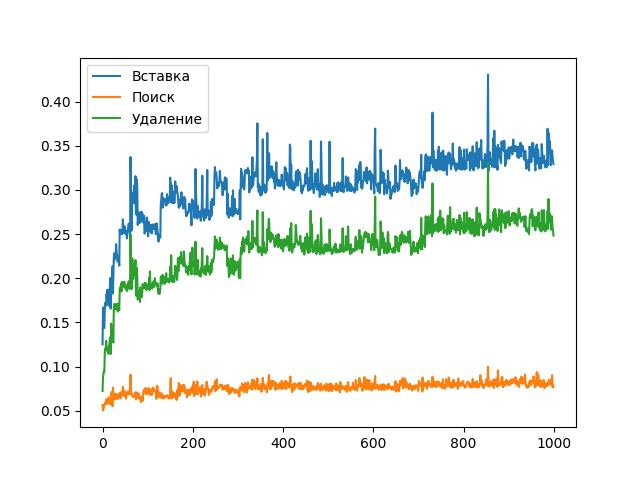
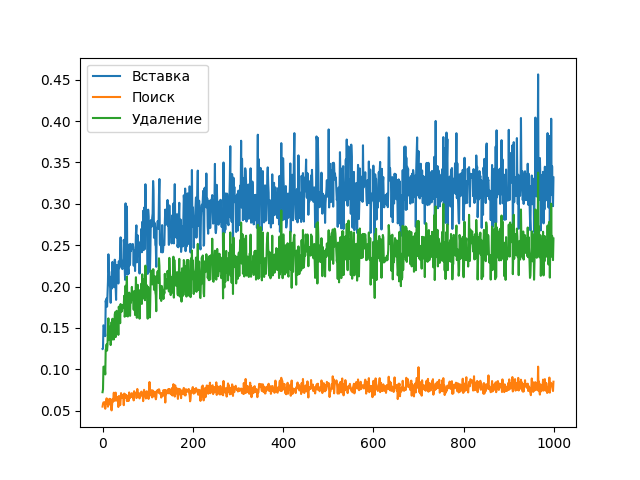
Nice

diff --git a/profiler.cpp b/profiler.cpp
@@ -51,17 +51,17 @@ public:
             //testing
             for (int j = 0; j < n; j++) {
                 double start_insert = get_time();
-                tree.insert(test_sequence[0]);
+                tree.insert(test_sequence[i]);
                 double end_insert = get_time();
                 insert_time += end_insert - start_insert;
 
                 double start_find = get_time();
-                tree.find(test_sequence[0]);
+                tree.find(test_sequence[i]);
                 double end_find = get_time();
                 find_time += end_find - start_find;
 
                 double start_erase = get_time();
-                tree.erase(test_sequence[0]);
+                tree.erase(test_sequence[i]);
                 double end_erase = get_time();
                 erase_time += end_erase - start_erase;
             }
@@ -83,11 +83,7 @@ public:
 int main(){
     char k;
     cin >> k;
-    if (k == '1') {
-        profiler<AVL<int>> pf;
-    } else {
-        profiler<rb_set<int>> pf;
-    }
+    profiler<AVL<int>> pf;
     pf.test();
 }
 

diff --git a/plotting.py b/plotting.py
@@ -9,10 +9,10 @@ y2 = []
 y3 =[]
 
 for i in range(len(data)):
-    x.append(data[i][0])
-    y1.append(data[i][1])
-    y2.append(data[i][2])
-    y3.append(data[i][3])
+    x.append(np.log(data[i][0]))
+    y1.append((data[i][1]))
+    y2.append((data[i][2]))
+    y3.append((data[i][3]))
 
 inset, =  plt.plot(x, y1)
 inset.set_label('Вставка')
